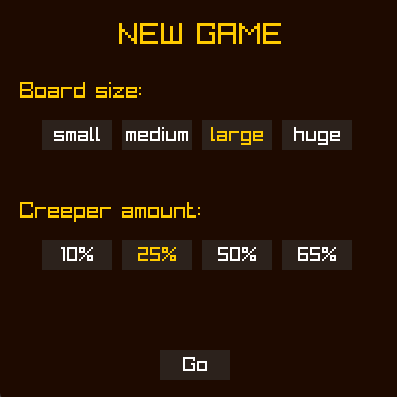
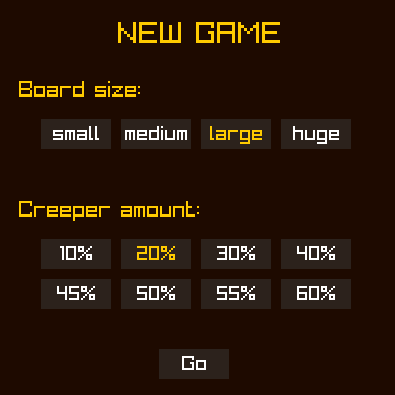
decreased cell size; added number colors; added more bomb amount settings

diff --git a/main.go b/main.go
@@ -30,19 +30,24 @@ var gameSizeMediumBtn *Button = NewButton("medium", 122, 120, 70, 30, rl.White, 
 var gameSizeLargeBtn *Button = NewButton("large", 202, 120, 70, 30, rl.White, rl.Gold)
 var gameSizeHugeBtn *Button = NewButton("huge", 282, 120, 70, 30, rl.White, rl.Gold)
 
-var bombAmountSmallBtn *Button = NewButton("10%", 42, 240, 70, 30, rl.White, rl.Gold)
-var bombAmountMediumBtn *Button = NewButton("25%", 122, 240, 70, 30, rl.White, rl.Gold)
-var bombAmountLargeBtn *Button = NewButton("50%", 202, 240, 70, 30, rl.White, rl.Gold)
-var bombAmountHugeBtn *Button = NewButton("65%", 282, 240, 70, 30, rl.White, rl.Gold)
+var bombAmount10Btn *Button = NewButton("10%", 42, 240, 70, 30, rl.White, rl.Gold)
+var bombAmount20Btn *Button = NewButton("20%", 122, 240, 70, 30, rl.White, rl.Gold)
+var bombAmount30Btn *Button = NewButton("30%", 202, 240, 70, 30, rl.White, rl.Gold)
+var bombAmount40Btn *Button = NewButton("40%", 282, 240, 70, 30, rl.White, rl.Gold)
+
+var bombAmount45Btn *Button = NewButton("45%", 42, 280, 70, 30, rl.White, rl.Gold)
+var bombAmount50Btn *Button = NewButton("50%", 122, 280, 70, 30, rl.White, rl.Gold)
+var bombAmount55Btn *Button = NewButton("55%", 202, 280, 70, 30, rl.White, rl.Gold)
+var bombAmount60Btn *Button = NewButton("60%", 282, 280, 70, 30, rl.White, rl.Gold)
 
 var startNewGameBtn *Button = NewButton("Go", 160, 350, 70, 30, rl.White, rl.Gold)
 
 func main() {
-	rl.InitWindow(800, 450, "MineCreeper v1.0")
+	rl.InitWindow(800, 450, "MineCreeper v1.0.1")
 	rl.SetTargetFPS(20)
 	loadAssets()
 	gameSizeSmallBtn.Selected = true
-	bombAmountSmallBtn.Selected = true
+	bombAmount10Btn.Selected = true
 
 	board := createNewBoard()
 
@@ -123,34 +128,94 @@ func main() {
 
 			// Board size
 			rl.DrawText("Creeper amount:", 20, 200, 22, rl.Gold)
-			bombAmountSmallBtn.Draw()
-			bombAmountMediumBtn.Draw()
-			bombAmountLargeBtn.Draw()
-			bombAmountHugeBtn.Draw()
+			bombAmount10Btn.Draw()
+			bombAmount20Btn.Draw()
+			bombAmount30Btn.Draw()
+			bombAmount40Btn.Draw()
+			bombAmount45Btn.Draw()
+			bombAmount50Btn.Draw()
+			bombAmount55Btn.Draw()
+			bombAmount60Btn.Draw()
 
-			if bombAmountSmallBtn.Pressed() {
-				bombAmountSmallBtn.Selected = true
-				bombAmountMediumBtn.Selected = false
-				bombAmountLargeBtn.Selected = false
-				bombAmountHugeBtn.Selected = false
+			if bombAmount10Btn.Pressed() {
+				bombAmount10Btn.Selected = true
+				bombAmount20Btn.Selected = false
+				bombAmount30Btn.Selected = false
+				bombAmount40Btn.Selected = false
+				bombAmount45Btn.Selected = false
+				bombAmount50Btn.Selected = false
+				bombAmount55Btn.Selected = false
+				bombAmount60Btn.Selected = false
 			}
-			if bombAmountMediumBtn.Pressed() {
-				bombAmountMediumBtn.Selected = true
-				bombAmountSmallBtn.Selected = false
-				bombAmountLargeBtn.Selected = false
-				bombAmountHugeBtn.Selected = false
+			if bombAmount20Btn.Pressed() {
+				bombAmount10Btn.Selected = false
+				bombAmount20Btn.Selected = true
+				bombAmount30Btn.Selected = false
+				bombAmount40Btn.Selected = false
+				bombAmount45Btn.Selected = false
+				bombAmount50Btn.Selected = false
+				bombAmount55Btn.Selected = false
+				bombAmount60Btn.Selected = false
 			}
-			if bombAmountLargeBtn.Pressed() {
-				bombAmountLargeBtn.Selected = true
-				bombAmountSmallBtn.Selected = false
-				bombAmountMediumBtn.Selected = false
-				bombAmountHugeBtn.Selected = false
+			if bombAmount30Btn.Pressed() {
+				bombAmount10Btn.Selected = false
+				bombAmount20Btn.Selected = false
+				bombAmount30Btn.Selected = true
+				bombAmount40Btn.Selected = false
+				bombAmount45Btn.Selected = false
+				bombAmount50Btn.Selected = false
+				bombAmount55Btn.Selected = false
+				bombAmount60Btn.Selected = false
 			}
-			if bombAmountHugeBtn.Pressed() {
-				bombAmountHugeBtn.Selected = true
-				bombAmountLargeBtn.Selected = false
-				bombAmountSmallBtn.Selected = false
-				bombAmountMediumBtn.Selected = false
+			if bombAmount40Btn.Pressed() {
+				bombAmount10Btn.Selected = false
+				bombAmount20Btn.Selected = false
+				bombAmount30Btn.Selected = false
+				bombAmount40Btn.Selected = true
+				bombAmount45Btn.Selected = false
+				bombAmount50Btn.Selected = false
+				bombAmount55Btn.Selected = false
+				bombAmount60Btn.Selected = false
+			}
+			if bombAmount45Btn.Pressed() {
+				bombAmount10Btn.Selected = false
+				bombAmount20Btn.Selected = false
+				bombAmount30Btn.Selected = false
+				bombAmount40Btn.Selected = false
+				bombAmount45Btn.Selected = true
+				bombAmount50Btn.Selected = false
+				bombAmount55Btn.Selected = false
+				bombAmount60Btn.Selected = false
+			}
+			if bombAmount50Btn.Pressed() {
+				bombAmount10Btn.Selected = false
+				bombAmount20Btn.Selected = false
+				bombAmount30Btn.Selected = false
+				bombAmount40Btn.Selected = false
+				bombAmount45Btn.Selected = false
+				bombAmount50Btn.Selected = true
+				bombAmount55Btn.Selected = false
+				bombAmount60Btn.Selected = false
+			}
+			if bombAmount55Btn.Pressed() {
+				bombAmount10Btn.Selected = false
+				bombAmount20Btn.Selected = false
+				bombAmount30Btn.Selected = false
+				bombAmount40Btn.Selected = false
+				bombAmount45Btn.Selected = false
+				bombAmount50Btn.Selected = false
+				bombAmount55Btn.Selected = true
+				bombAmount60Btn.Selected = false
+			}
+			if bombAmount60Btn.Pressed() {
+				bombAmount10Btn.Selected = false
+				bombAmount20Btn.Selected = false
+				bombAmount30Btn.Selected = false
+				bombAmount40Btn.Selected = false
+				bombAmount45Btn.Selected = false
+				bombAmount50Btn.Selected = false
+				bombAmount55Btn.Selected = false
+				bombAmount60Btn.Selected = true
 			}
 
 			startNewGameBtn.Draw()
@@ -166,13 +231,13 @@ func main() {
 
 func drawGameGui(board *Board) {
 	// Number of bombs
-	rl.DrawTexture(signTex, 0, int32(board.yOffset-board.cellSize), rl.White)
+	rl.DrawTexture(signTex, 0, int32(board.yOffset-40), rl.White)
 	numBombs := board.numBombs - board.getNumFlaggedCells()
-	rl.DrawText(strconv.Itoa(numBombs), int32(board.xOffset*2)+int32(board.cellSize)-rl.MeasureText(strconv.Itoa(numBombs), 24)/2, int32(24/2), 24, rl.Gold)
+	rl.DrawText(strconv.Itoa(numBombs), 65-rl.MeasureText(strconv.Itoa(numBombs), 24)/2, int32(24/2), 24, rl.Gold)
 	// Time
-	timeSignX := int32((board.width*board.cellSize - board.cellSize*2) - board.xOffset*3)
-	rl.DrawTexture(signTex, timeSignX, int32(board.yOffset-board.cellSize), rl.White)
-	rl.DrawText(strconv.Itoa(int(board.elapsedSeconds)), timeSignX+int32(board.xOffset*2)+int32(board.cellSize)-rl.MeasureText(strconv.Itoa(int(board.elapsedSeconds)), 24)/2, int32(24/2), 24, rl.Gold)
+	timeSignX := int32(board.width*board.cellSize) - 110
+	rl.DrawTexture(signTex, timeSignX, int32(board.yOffset-40), rl.White)
+	rl.DrawText(strconv.Itoa(int(board.elapsedSeconds)), timeSignX+60-rl.MeasureText(strconv.Itoa(int(board.elapsedSeconds)), 24)/2, int32(24/2), 24, rl.Gold)
 	// New game button
 	rl.DrawTexture(headTex, int32(((board.width*board.cellSize)/2)+board.xOffset-board.cellSize/2), int32(board.yOffset-board.cellSize)-5, rl.White)
 }
@@ -207,24 +272,32 @@ func createNewBoard() *Board {
 		boardWidth = 8
 		boardHeight = 8
 	} else if gameSizeMediumBtn.Selected {
-		boardWidth = 12
-		boardHeight = 12
+		boardWidth = 16
+		boardHeight = 16
 	} else if gameSizeLargeBtn.Selected {
-		boardWidth = 20
-		boardHeight = 20
+		boardWidth = 28
+		boardHeight = 28
 	} else if gameSizeHugeBtn.Selected {
-		boardWidth = 45
-		boardHeight = 25
+		boardWidth = 55
+		boardHeight = 30
 	}
 
-	if bombAmountSmallBtn.Selected {
+	if bombAmount10Btn.Selected {
 		bombAmount = int(float32(boardWidth*boardHeight) * 0.10)
-	} else if bombAmountMediumBtn.Selected {
-		bombAmount = int(float32(boardWidth*boardHeight) * 0.25)
-	} else if bombAmountLargeBtn.Selected {
+	} else if bombAmount20Btn.Selected {
+		bombAmount = int(float32(boardWidth*boardHeight) * 0.20)
+	} else if bombAmount30Btn.Selected {
+		bombAmount = int(float32(boardWidth*boardHeight) * 0.30)
+	} else if bombAmount40Btn.Selected {
+		bombAmount = int(float32(boardWidth*boardHeight) * 0.40)
+	} else if bombAmount45Btn.Selected {
+		bombAmount = int(float32(boardWidth*boardHeight) * 0.45)
+	} else if bombAmount50Btn.Selected {
 		bombAmount = int(float32(boardWidth*boardHeight) * 0.50)
-	} else if bombAmountHugeBtn.Selected {
-		bombAmount = int(float32(boardWidth*boardHeight) * 0.65)
+	} else if bombAmount55Btn.Selected {
+		bombAmount = int(float32(boardWidth*boardHeight) * 0.55)
+	} else if bombAmount60Btn.Selected {
+		bombAmount = int(float32(boardWidth*boardHeight) * 0.60)
 	}
 
 	gameState = GAMESTATE_IN_PROGRESS

diff --git a/board.go b/board.go
@@ -39,11 +39,11 @@ func newBoard(width, height, numBombs int) *Board {
 		height = 7
 	}
 
-	board := &Board{width: width, height: height, cellSize: 40, bombCell: -1, emptyCell: 0, xOffset: 10, yOffset: 50}
+	board := &Board{width: width, height: height, cellSize: 32, bombCell: -1, emptyCell: 0, xOffset: 10, yOffset: 50}
 
-	// Number of bombs cannot be more than 75% and less thatn 25% of the board
-	if numBombs > int(float32(width*height)*0.75) {
-		numBombs = int(float32(width*height) * 0.75)
+	// Number of bombs cannot be more than 60% and less thatn 10% of the board
+	if numBombs > int(float32(width*height)*0.60) {
+		numBombs = int(float32(width*height) * 0.60)
 	} else if numBombs < int(float32(width*height)*0.10) {
 		numBombs = int(float32(width*height) * 0.10)
 	}
@@ -145,9 +145,21 @@ func (b *Board) draw() {
 					rl.DrawTexture(dirtBlock, int32(x*b.cellSize+b.xOffset), int32(y*b.cellSize+b.yOffset), rl.NewColor(100, 100, 100, 200))
 				}
 				if b.cells[idx] > b.emptyCell {
-					nx := int32(x*b.cellSize+(b.cellSize/2)) - rl.MeasureText(strconv.Itoa(b.cells[idx]), 26)/2 + int32(b.xOffset)
+					nx := int32(x*b.cellSize+(b.cellSize/2)) - rl.MeasureText(strconv.Itoa(b.cells[idx]), 20)/2 + int32(b.xOffset)
 					ny := int32(y*b.cellSize+10) + int32(b.yOffset)
-					rl.DrawText(strconv.Itoa((b.cells[idx])), nx-2, ny-2, 26, rl.Gold)
+
+					if b.cells[idx] <= 1 {
+						rl.DrawText(strconv.Itoa((b.cells[idx])), nx-2, ny-4, 20, rl.NewColor(200, 200, 200, 255))
+					} else if b.cells[idx] <= 2 {
+						rl.DrawText(strconv.Itoa((b.cells[idx])), nx-2, ny-4, 20, rl.NewColor(0, 180, 255, 255))
+					} else if b.cells[idx] <= 3 {
+						rl.DrawText(strconv.Itoa((b.cells[idx])), nx-2, ny-4, 20, rl.NewColor(0, 255, 180, 255))
+					} else if b.cells[idx] <= 4 {
+						rl.DrawText(strconv.Itoa((b.cells[idx])), nx-2, ny-4, 20, rl.NewColor(255, 180, 0, 255))
+					} else if b.cells[idx] <= 8 {
+						rl.DrawText(strconv.Itoa((b.cells[idx])), nx-2, ny-4, 20, rl.NewColor(255, 80, 80, 255))
+					}
+					// rl.DrawText(strconv.Itoa((b.cells[idx])), nx-2, ny-4, 20, rl.NewColor(255, 203, 0, 255))
 				}
 			}
 		}
